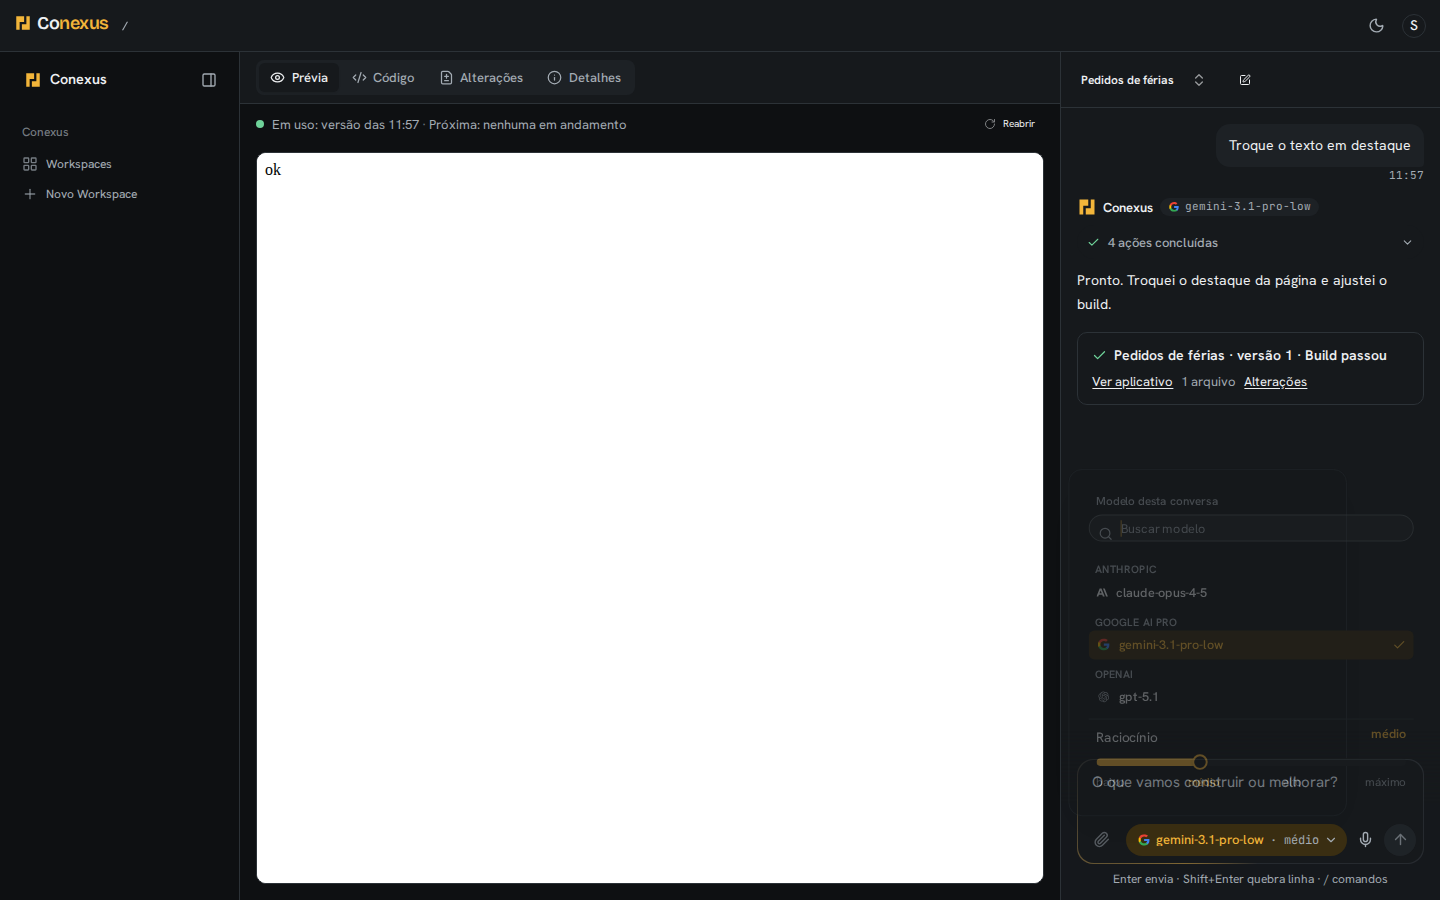
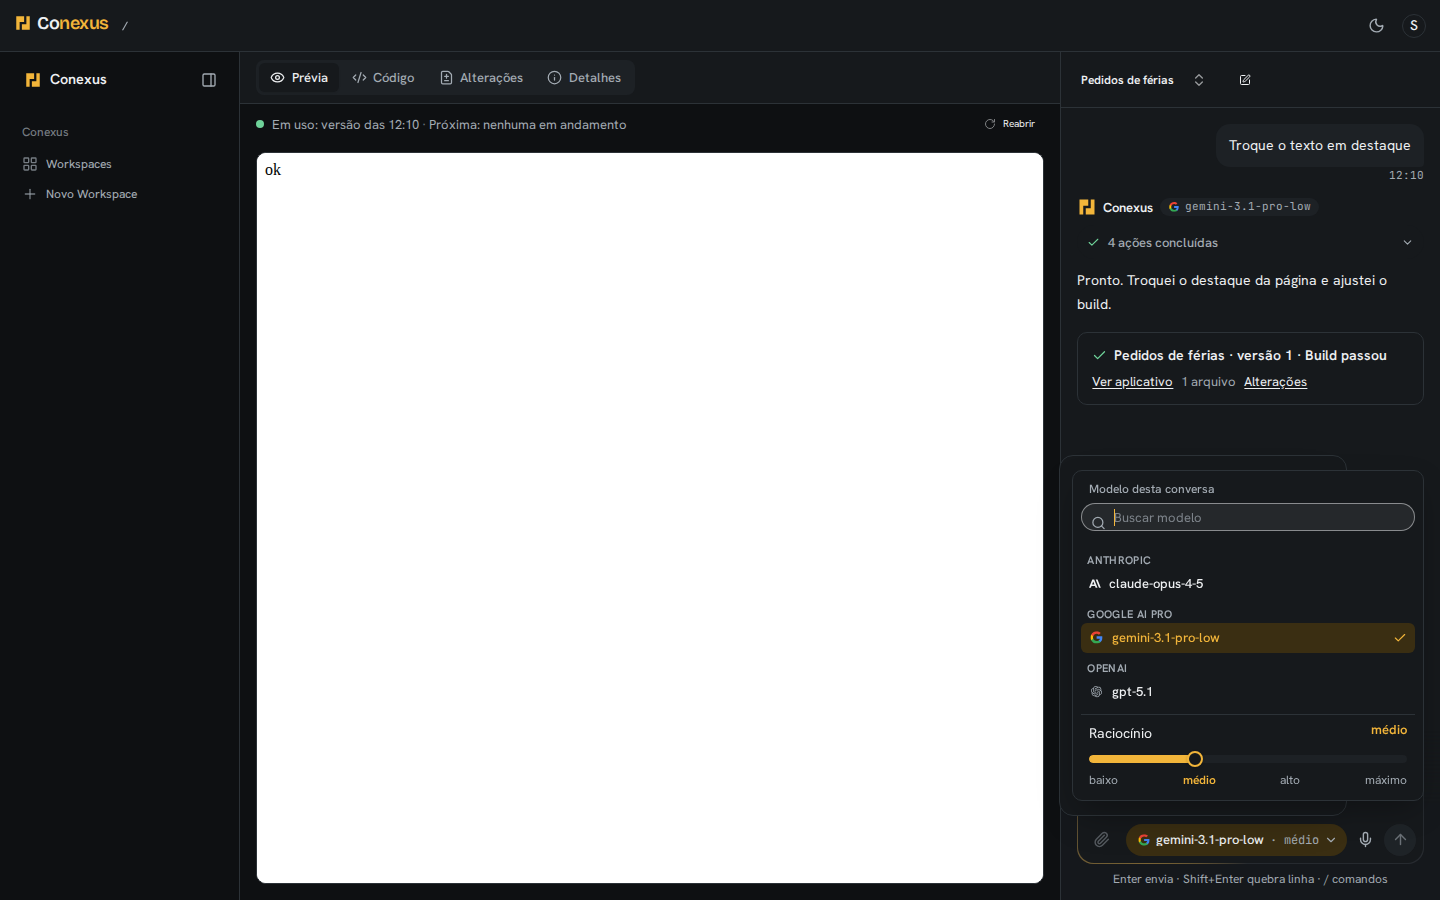
fix(construir): opaque model picker, full-contrast model label
Review of #179 found three visual defects in the evidence screenshots:

- The model picker's surface had no background/border/shadow at all (only
  the inner padding div was styled), so the composer behind it showed
  through. Gave .cx-model-popover an opaque surface, a border and a shadow.
- The composer's own box background was already correctly reading
  --cx-surface per theme (verified via computed style in both themes); the
  "white in dark theme" read was the transparent popover bleeding the
  composer's placeholder through it, which the popover fix above resolves.
- The model button's hover/focus-visible state swapped the model name's
  color to the muted accent text, which read as a disabled control once the
  picker was open (focus lingers on the trigger). The label now always
  stays full-contrast text; only the background pill lights on hover/focus.

Retook all three evidence screenshots in dark AND light (1440x900): the ipê
ring is visibly lit at rest in both.

diff --git a/apps/web/src/features/builder/composer/composer.css b/apps/web/src/features/builder/composer/composer.css
@@ -24,7 +24,9 @@
 .cx-icon-button[aria-disabled="true"] { opacity: .45; cursor: default; }
 .cx-icon-button[data-listening] { background: var(--cx-accent-soft); color: var(--cx-accent-text); }
 .cx-model-button { display: inline-flex; align-items: center; gap: .35rem; min-width: 0; height: 32px; padding: 0 .55rem 0 .65rem; border: 0; border-radius: 999px; background: transparent; color: var(--cx-text); font: 500 .8125rem/1 var(--cx-font-body); }
-.cx-model-button:hover, .cx-model-button:focus-visible { background: var(--cx-accent-soft); color: var(--cx-accent-text); }
+/* Hover/focus lights the pill, never the label: the model name stays full-contrast text, not the
+   muted accent color, so an open picker never reads as a disabled control. */
+.cx-model-button:hover, .cx-model-button:focus-visible { background: var(--cx-accent-soft); }
 .cx-model-name { overflow: hidden; text-overflow: ellipsis; white-space: nowrap; max-width: 10rem; }
 .cx-model-button[title] .cx-model-name { max-width: none; }
 .cx-model-level { flex: none; color: var(--cx-text-2); font: 400 .75rem/1 var(--cx-font-mono); }
@@ -39,7 +41,7 @@
 .cx-composer-note[role="alert"] { color: var(--cx-danger); }
 
 /* Model picker: one popover, no nested combobox. Search, a provider-grouped list, then Raciocínio. */
-.cx-model-popover { width: min(22rem, calc(100vw - 2rem)); padding: .5rem; display: grid; gap: .5rem; }
+.cx-model-popover { width: min(22rem, calc(100vw - 2rem)); padding: .5rem; display: grid; gap: .5rem; background: var(--cx-surface); border: 1px solid var(--cx-line); border-radius: 10px; box-shadow: 0 12px 32px -8px rgb(0 0 0 / .35); }
 .cx-popover-title { margin: .25rem .5rem 0; color: var(--cx-text-2); font: 500 .75rem/1 var(--cx-font-body); }
 .cx-model-empty { display: grid; gap: .35rem; padding: .25rem .5rem; font-size: .875rem; }
 .cx-model-empty p { margin: 0; color: var(--cx-text-2); }
